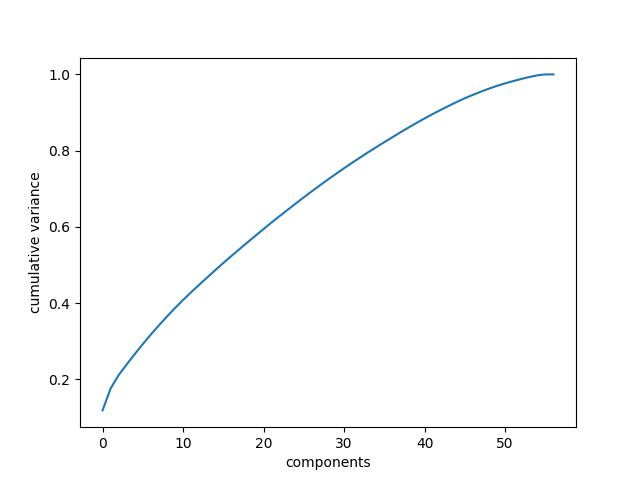
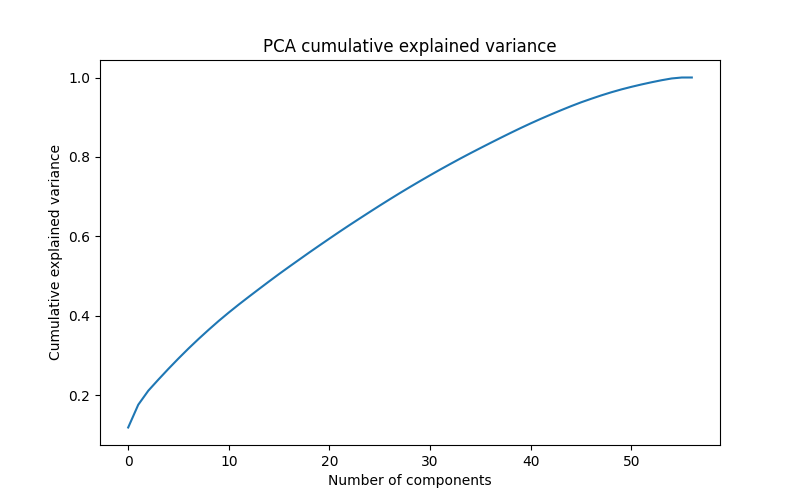
Added comments

diff --git a/assignments_03/project_03.py b/assignments_03/project_03.py
@@ -5,13 +5,16 @@ import os
 
 from sklearn.model_selection import train_test_split
 from sklearn.preprocessing import StandardScaler
+from sklearn.decomposition import PCA
 
 BASE_DIR = os.path.dirname(__file__)
 OUTPUT_DIR = os.path.join(BASE_DIR, "outputs")
 os.makedirs(OUTPUT_DIR, exist_ok=True)
 
+# ----------------------------
+# Task 1: Load and Explore
+# ----------------------------
 url = "https://archive.ics.uci.edu/ml/machine-learning-databases/spambase/spambase.data"
-
 df = pd.read_csv(url, header=None)
 
 print("Shape:", df.shape)
@@ -23,38 +26,55 @@ print("X shape:", X.shape)
 print("y distribution:")
 print(y.value_counts())
 
-features = [0, 52, 55]
+print("Class balance (%):")
+print(y.value_counts(normalize=True) * 100)
+
+# Accuracy can be misleading when classes are not perfectly balanced.
+
+# Boxplots for the requested features
+features = {
+  "word_freq_free": 15,
+  "char_freq_!": 51,
+  "capital_run_length_total": 56
+}
 
 df["spam_label"] = y
 
-for f in features:
+for feature_name, col_idx in features.items():
   plt.figure()
-  df.boxplot(column=f, by="spam_label")
-  plt.title(f"Feature {f} by spam (1) vs ham (0)")
+  df.boxplot(column=col_idx, by="spam_label")
+  plt.title(f"{feature_name} by spam (1) vs ham (0)")
   plt.suptitle("")
-  plt.savefig(os.path.join(OUTPUT_DIR, f"boxplot_feature_{f}.png"))
+  plt.savefig(os.path.join(OUTPUT_DIR, f"{feature_name}_boxplot.png"))
   plt.close()
 
+# Many of these features are heavily skewed toward zero because many emails
+# do not contain these words or symbols at all.
+
+# ----------------------------
+# Task 2: Prepare Your Data
+# ----------------------------
 X_train, X_test, y_train, y_test = train_test_split(
-  X, y, test_size=0.2, random_state=42, stratify=y
+    X, y, test_size=0.2, random_state=42, stratify=y
 )
 
 scaler = StandardScaler()
-
 X_train_scaled = scaler.fit_transform(X_train)
 X_test_scaled = scaler.transform(X_test)
-# scaling is important because features have very different ranges
 
-from sklearn.decomposition import PCA
+# Scaling is important because the features have very different ranges.
+# We fit the scaler on the training data only to avoid data leakage.
 
 pca = PCA()
 pca.fit(X_train_scaled)
 
 explained_variance = np.cumsum(pca.explained_variance_ratio_)
 
+plt.figure(figsize=(8, 5))
 plt.plot(explained_variance)
-plt.xlabel("components")
-plt.ylabel("cumulative variance")
+plt.xlabel("Number of components")
+plt.ylabel("Cumulative explained variance")
+plt.title("PCA cumulative explained variance")
 plt.savefig(os.path.join(OUTPUT_DIR, "pca_variance_project.png"))
 plt.close()
 
